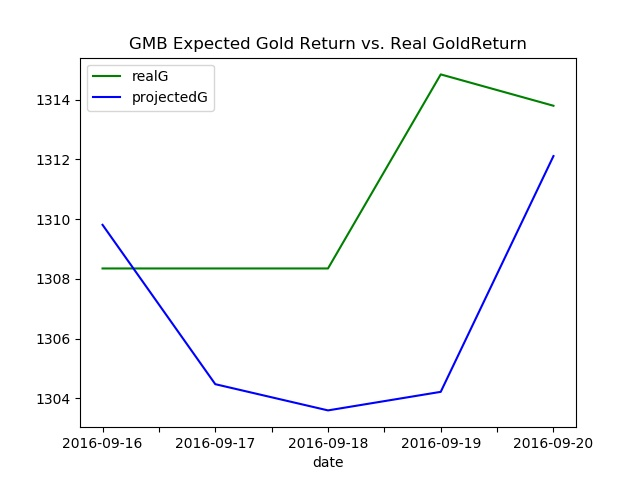
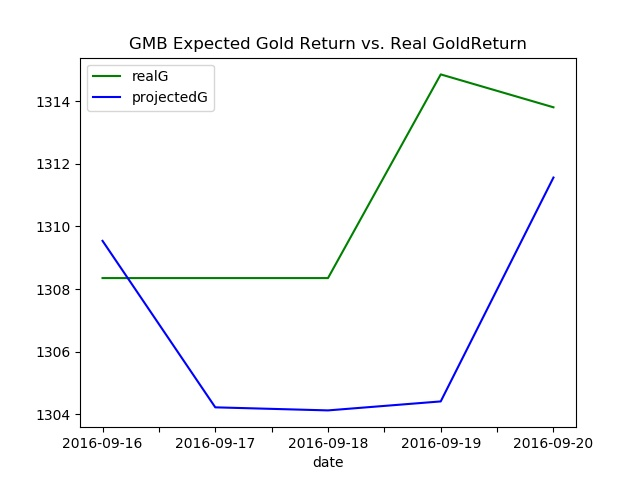
ahhhh

diff --git a/optimalPortfolio.py b/optimalPortfolio.py
@@ -22,7 +22,7 @@ from projReturn import ProjReturn
 
 
 # of simulation runs
-num_runs = 100
+num_runs = 1000
 
 class Portfolio():
 
@@ -111,9 +111,9 @@ class Portfolio():
             tradingCost = 0
             if not justSortino:
                 #trading cost
-                x = abs(currentAlo[1] - (weights[1] * capital)) / prices[1]
-                y = abs(currentAlo[2] - (weights[2] * capital)) / prices[2]
-                tradingCost = 2*x + y  #maybe 2 times this? have a think!
+                x = abs(currentAlo[1] - (weights[1] * capital)) 
+                y = abs(currentAlo[2] - (weights[2] * capital))
+                tradingCost = (0.2)*x + (0.1)*y  #maybe 2 times this? have a think!
             
                 
                 
@@ -148,7 +148,7 @@ class Portfolio():
             min_distance = result['adjustedDistance'].min()
             result['NormedDistance'] = ((result['adjustedDistance'] - min_distance) / (max_distance - min_distance))
 
-            result['M-Value'] = result['NormedSortino'] - result['NormedDistance']
+            result['M-Value'] = result['NormedSortino'] - (2*result['NormedDistance'])
 
             maxIndex = result['M-Value'].idxmax()
             bestRow = result.loc[maxIndex].to_list()
@@ -204,9 +204,9 @@ class Portfolio():
         #solve adjusted distance (trading cost) between simulatedAlo(1) and realAlo(0), if x is Bit and there is no gold: distance = 2|x1-x0| 
             if not justSortino:
                 #trading cost
-                x = abs(currentAlo[1] - (weights[1]*capital)) / prices[1]
+                x = abs(currentAlo[1] - (weights[1]*capital))
                 
-                tradingCost = 2*x  #maybe 2 times this? have a think!
+                tradingCost = 0.2*x  #maybe 2 times this? have a think!
             
                 
 
@@ -241,7 +241,7 @@ class Portfolio():
             min_distance = result['adjustedDistance'].min()
             result['NormedDistance'] = ((result.adjustedDistance - min_distance) / (max_distance - min_distance))
 
-            result['M-Value'] = result['NormedSortino'] - result['NormedDistance']
+            result['M-Value'] = result['NormedSortino'] - (2 * result['NormedDistance'])
 
             maxIndex = int(result['M-Value'].idxmax())
             bestRow = result.loc[maxIndex].to_list()

diff --git a/day.py b/day.py
@@ -7,7 +7,7 @@ from projReturn import ProjReturn
 
 
 
-length = 10
+length = 1822
 
 proportionalAlocations = {"date": [], "real_cash": [1, 1, 1, 1], "real_bit": [0, 0, 0, 0], "real_gold": [0, 0, 0, 0]}
 alocations = [[1000, 0, 0], [1000, 0, 0], [1000, 0, 0], [1000, 0, 0]]
@@ -31,13 +31,13 @@ def calculateTotalCapital(allocation):
 def calculateActualAllocation(proportionalAlo, capital, prices):
     portfolio = [0,0,0]
     for i in range(3):
-        portfolio[i] = proportionalAlo[i] * capital / prices[i]
+        portfolio[i] = proportionalAlo[i] * capital
     return portfolio
 
 def getProportionalAllocation(allocation, totalCapital):
     portfolio = [0,0,0]
     for i in range(3):
-        portfolio[i] =  totalCapital / allocation[i]
+        portfolio[i] =  allocation[i] / totalCapital
     return portfolio
 
 def getGoldExpectedVsRealPlot(comparedReturnDF, start, stop):
